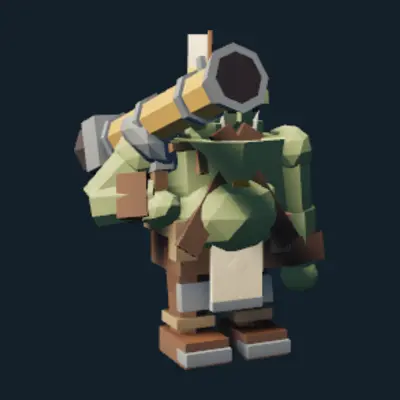
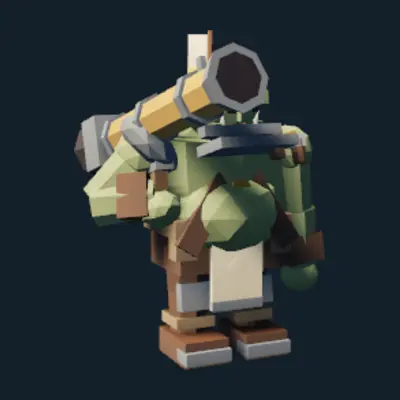
art(ogre-archer): refresh portrait and record native reload verification

Changed region(s): [[0.42, 0.3, 0.78, 0.45], [0.57, 0.48, 0.63, 0.57]]

diff --git a/docs/planning/P71-OGRE-RELOAD.md b/docs/planning/P71-OGRE-RELOAD.md
@@ -20,3 +20,33 @@ Consolidation queued: existing `the_bombard_points_along_its_shells_flight`
 regression, a native debug build, and an authentic SiegeWalker firing/reload
 recording. No full suite, release/package build or gallery matrix is requested.
 The owner-authorized delivery remains commit, push, then native Linux reinstall.
+
+## Consolidated result
+
+Runtime commit: `bc8ef321fb1bfda4852ccf7d7e927c1ae945d5a1`.
+`cargo test --offline --locked -p tbg-client --bin tbg-client
+the_bombard_points_along_its_shells_flight -- --test-threads=1`: 1 passed
+(aim directions across all five forms). The native debug build passed in
+19.61 s with the embedded runtime commit; same nonblocking host lock and
+two-job limit. No full suite or additional platform build ran.
+
+Two real 12-second training engagements were recorded with the ordinary core
+and normal Animator: Base/seat A and A2/seat B, initial distance5500, no allied
+frontline. The recordings observed 9 and 8 total real attack starts respectively
+(subject plus opponent); these counts are not a claim about subject cadence.
+Sampled reload frames at video PTS1.60,1.95,2.20 were inspected for both. The
+forearm stays in front of the torso, with an outward elbow and a small visible
+charging-handle stroke. The A2 armor/large barrel variant retains that clearance
+in the inspected frames. These are bounded native observations, not an
+exhaustive collision or performance guarantee.
+
+The Shop portrait was regenerated from the actual model; original and asset
+hashes are in P71-PORTRAITS.json. The local evidence index below preserves
+recording, build and review-frame hashes. Bulk video/private data stay ignored.
+WASM runtime/browser appearance, a full all-form temporal matrix, Low quality
+and full-suite checks remain deferred to future scoped consolidation.
+
+Delivery: push the follow-up commits, then install the verified executable and
+current portrait assets as `0.1.0-native.2-p71-bc8ef32`, preserving previous
+installations and existing user data. The binary source is bc8ef32; subsequent
+commits only update the portrait and this report.
